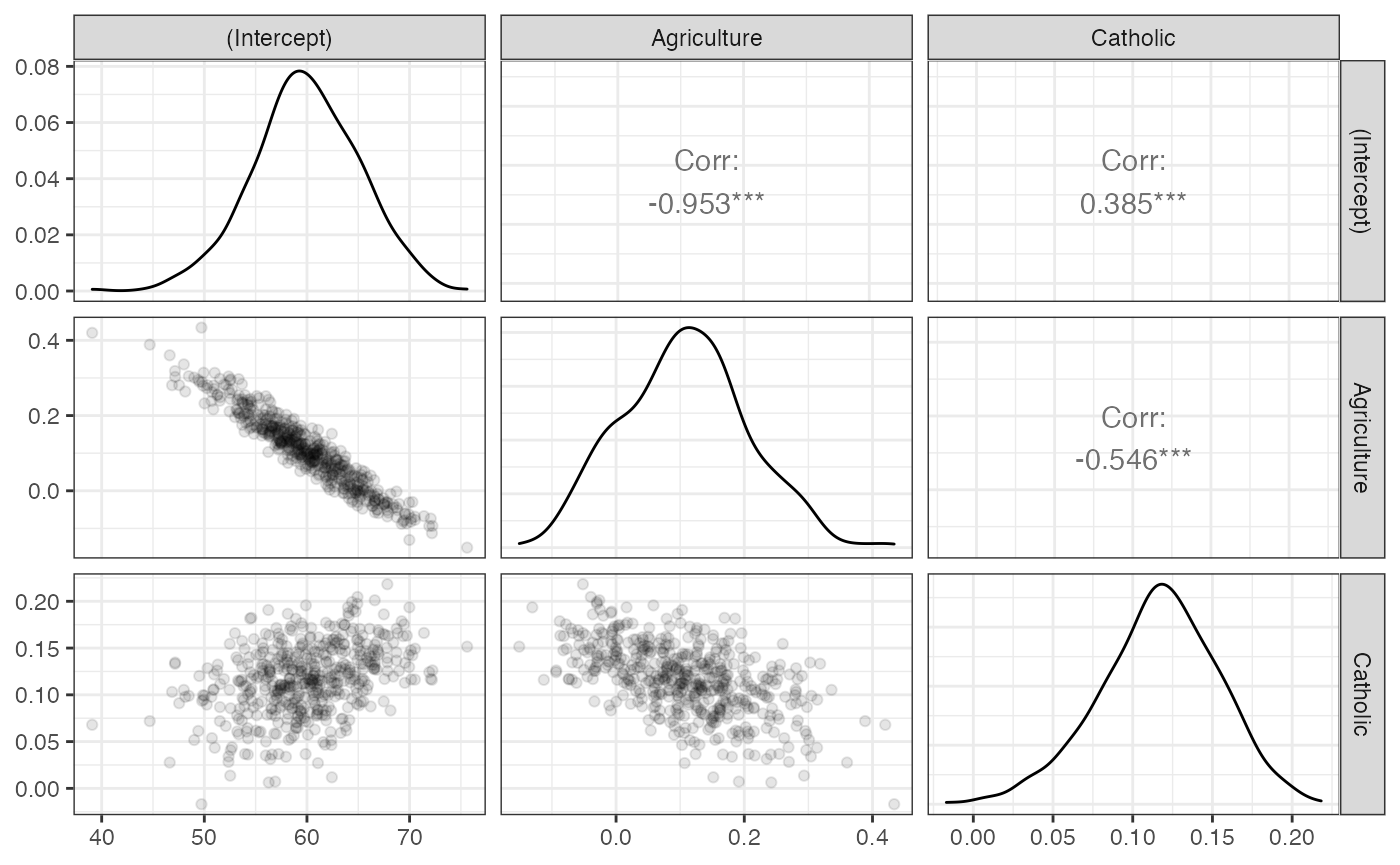
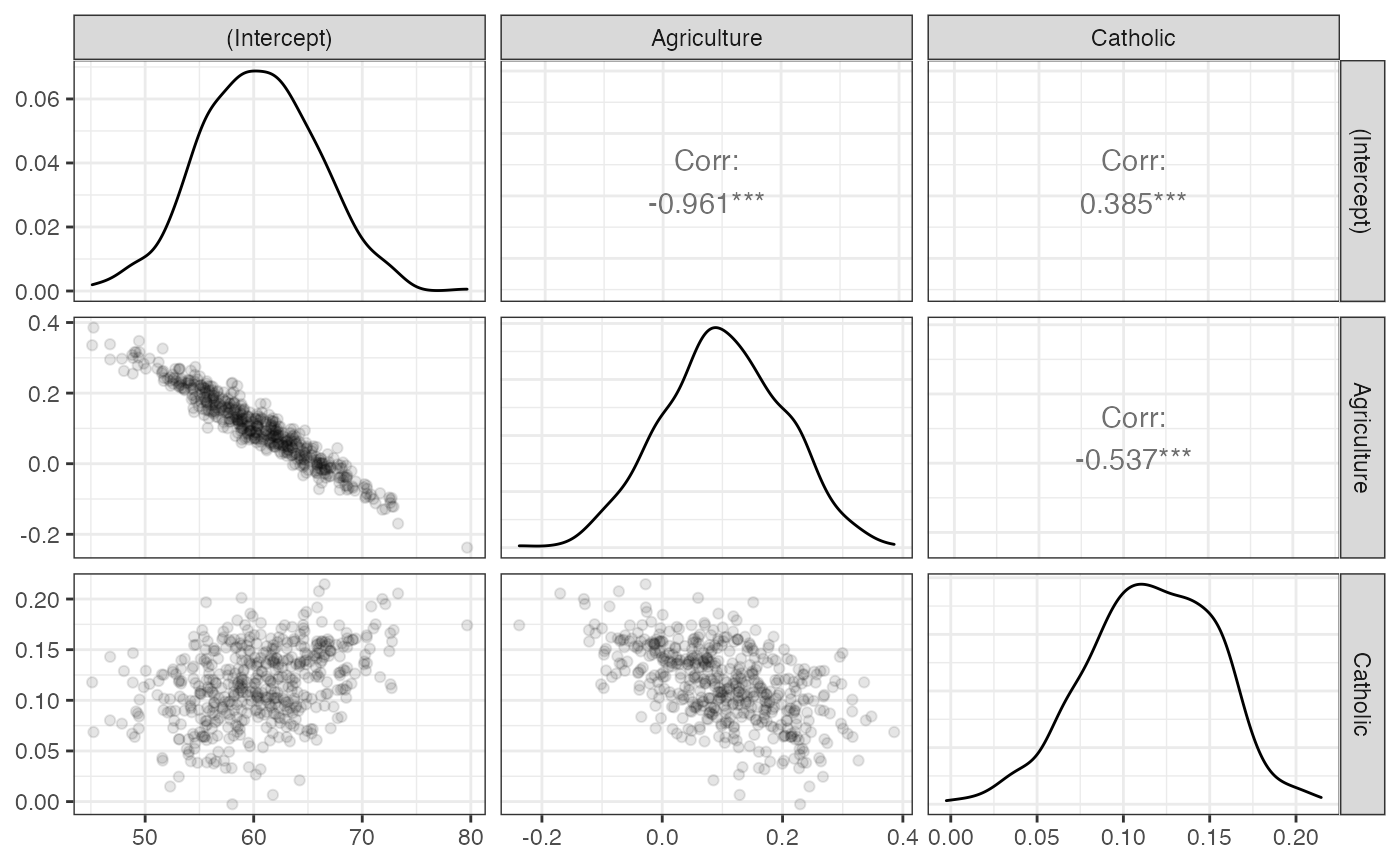
Deploying to gh-pages from  @ dd709c858b15e496c751726b52a727a49fcc6a29 🚀

diff --git a/r/estimatr/articles/estimatr-in-the-tidyverse.html b/r/estimatr/articles/estimatr-in-the-tidyverse.html
@@ -271,72 +271,72 @@
 <tr class="odd">
 <td align="left">1</td>
 <td align="left">(Intercept)</td>
-<td align="right">57.2255407</td>
-<td align="right">4.3185150</td>
-<td align="right">13.2512080</td>
+<td align="right">62.7159392</td>
+<td align="right">5.3176661</td>
+<td align="right">11.7938844</td>
 <td align="right">0.0000000</td>
-<td align="right">48.5221456</td>
-<td align="right">65.9289358</td>
+<td align="right">51.9988874</td>
+<td align="right">73.4329910</td>
 <td align="right">44</td>
 <td align="left">Fertility</td>
 </tr>
 <tr class="even">
 <td align="left">1</td>
 <td align="left">Catholic</td>
-<td align="right">0.1654930</td>
-<td align="right">0.0383714</td>
-<td align="right">4.3129290</td>
-<td align="right">0.0000896</td>
-<td align="right">0.0881606</td>
-<td align="right">0.2428254</td>
+<td align="right">0.1022182</td>
+<td align="right">0.0302474</td>
+<td align="right">3.3794060</td>
+<td align="right">0.0015311</td>
+<td align="right">0.0412586</td>
+<td align="right">0.1631778</td>
 <td align="right">44</td>
 <td align="left">Fertility</td>
 </tr>
 <tr class="odd">
 <td align="left">1</td>
 <td align="left">Agriculture</td>
-<td align="right">0.1230332</td>
-<td align="right">0.0846814</td>
-<td align="right">1.4528954</td>
-<td align="right">0.1533478</td>
-<td align="right">-0.0476309</td>
-<td align="right">0.2936974</td>
+<td align="right">0.0779291</td>
+<td align="right">0.0939399</td>
+<td align="right">0.8295635</td>
+<td align="right">0.4112638</td>
+<td align="right">-0.1113943</td>
+<td align="right">0.2672524</td>
 <td align="right">44</td>
 <td align="left">Fertility</td>
 </tr>
 <tr class="even">
 <td align="left">2</td>
 <td align="left">(Intercept)</td>
-<td align="right">61.1461880</td>
-<td align="right">5.8180568</td>
-<td align="right">10.5097269</td>
+<td align="right">71.2308751</td>
+<td align="right">5.0795535</td>
+<td align="right">14.0230584</td>
 <td align="right">0.0000000</td>
-<td align="right">49.4206650</td>
-<td align="right">72.8717110</td>
+<td align="right">60.9937077</td>
+<td align="right">81.4680425</td>
 <td align="right">44</td>
 <td align="left">Fertility</td>
 </tr>
 <tr class="odd">
 <td align="left">2</td>
 <td align="left">Catholic</td>
-<td align="right">0.1615975</td>
-<td align="right">0.0360211</td>
-<td align="right">4.4861954</td>
-<td align="right">0.0000515</td>
-<td align="right">0.0890018</td>
-<td align="right">0.2341932</td>
+<td align="right">0.1750442</td>
+<td align="right">0.0224986</td>
+<td align="right">7.7802394</td>
+<td align="right">0.0000000</td>
+<td align="right">0.1297013</td>
+<td align="right">0.2203870</td>
 <td align="right">44</td>
 <td align="left">Fertility</td>
 </tr>
 <tr class="even">
 <td align="left">2</td>
 <td align="left">Agriculture</td>
-<td align="right">0.0411230</td>
-<td align="right">0.1052872</td>
-<td align="right">0.3905793</td>
-<td align="right">0.6979929</td>
-<td align="right">-0.1710695</td>
-<td align="right">0.2533155</td>
+<td align="right">-0.1124035</td>
+<td align="right">0.0814375</td>
+<td align="right">-1.3802432</td>
+<td align="right">0.1744845</td>
+<td align="right">-0.2765299</td>
+<td align="right">0.0517229</td>
 <td align="right">44</td>
 <td align="left">Fertility</td>
 </tr>
@@ -350,9 +350,9 @@
 <pre><code>## # A tibble: 3 x 2
 ##   term        boot_se
 ##   &lt;chr&gt;         &lt;dbl&gt;
-## 1 (Intercept)  5.20  
-## 2 Agriculture  0.0981
-## 3 Catholic     0.0375</code></pre>
+## 1 (Intercept)  5.39  
+## 2 Agriculture  0.0999
+## 3 Catholic     0.0370</code></pre>
 <div class="sourceCode" id="cb15"><pre class="downlit sourceCode r">
 <code class="sourceCode R"><span class="co"># To visualize the sampling distribution</span>
 

diff --git a/r/estimatr/articles/absorbing-fixed-effects.html b/r/estimatr/articles/absorbing-fixed-effects.html
@@ -191,9 +191,9 @@
 <span class="op">)</span></code></pre></div>
 <pre><code>## Unit: milliseconds
 ##             expr       min        lq      mean    median        uq      max
-##  base + sandwich 171.31092 176.12680 195.46944 179.51090 188.05631 334.3303
-##        lm_robust  77.95361  81.07955  87.64364  84.35669  88.93613 130.3249
-##  lm_robust + fes  49.16145  51.55747  59.67416  53.27615  57.44732 187.5147
+##  base + sandwich 169.66652 173.49281 189.97176 179.71805 191.77885 302.7089
+##        lm_robust  75.81512  79.13110  84.88808  82.22102  84.69421 127.5936
+##  lm_robust + fes  48.22069  49.91552  55.97817  50.89630  54.09272 182.0109
 ##  neval cld
 ##     50   c
 ##     50  b 
@@ -221,13 +221,13 @@
 <span class="op">)</span></code></pre></div>
 <pre><code>## Unit: milliseconds
 ##             expr        min         lq       mean     median         uq
-##  base + sandwich 171.726638 180.130745 202.686598 185.385652 211.970160
-##        lm_robust  61.201850  64.674055  75.596923  66.975808  74.804311
-##  lm_robust + fes   7.624364   8.101014   9.361467   8.547253   9.886763
+##  base + sandwich 170.210259 175.168544 191.537621 179.041792 192.928775
+##        lm_robust  60.541598  62.896831  68.149178  65.154550  67.269258
+##  lm_robust + fes   7.351397   7.978358   9.070364   8.383448   8.964472
 ##        max neval cld
-##  352.39221    50   c
-##  210.04970    50  b 
-##   16.32043    50 a</code></pre>
+##  337.31343    50   c
+##  181.80482    50  b 
+##   18.06007    50 a</code></pre>
 </div>
   </div>
 

diff --git a/r/estimatr/reference/starprep.html b/r/estimatr/reference/starprep.html
@@ -239,7 +239,7 @@ the preferred, robust statistics.</p>
           omit.stat <span class='op'>=</span> <span class='st'>"f"</span><span class='op'>)</span>
 </div><div class='output co'>#&gt; 
 #&gt; % Table created by stargazer v.5.2.2 by Marek Hlavac, Harvard University. E-mail: hlavac at fas.harvard.edu
-#&gt; % Date and time: Tue, May 18, 2021 - 23:23:10
+#&gt; % Date and time: Wed, May 19, 2021 - 23:22:12
 #&gt; \begin{table}[!htbp] \centering 
 #&gt;   \caption{} 
 #&gt;   \label{} 
@@ -279,7 +279,7 @@ the preferred, robust statistics.</p>
           omit.stat <span class='op'>=</span> <span class='st'>"f"</span><span class='op'>)</span>
 </div><div class='output co'>#&gt; 
 #&gt; % Table created by stargazer v.5.2.2 by Marek Hlavac, Harvard University. E-mail: hlavac at fas.harvard.edu
-#&gt; % Date and time: Tue, May 18, 2021 - 23:23:10
+#&gt; % Date and time: Wed, May 19, 2021 - 23:22:12
 #&gt; \begin{table}[!htbp] \centering 
 #&gt;   \caption{} 
 #&gt;   \label{} 
@@ -316,7 +316,7 @@ the preferred, robust statistics.</p>
           omit.stat <span class='op'>=</span> <span class='st'>"f"</span><span class='op'>)</span>
 </div><div class='output co'>#&gt; 
 #&gt; % Table created by stargazer v.5.2.2 by Marek Hlavac, Harvard University. E-mail: hlavac at fas.harvard.edu
-#&gt; % Date and time: Tue, May 18, 2021 - 23:23:10
+#&gt; % Date and time: Wed, May 19, 2021 - 23:22:12
 #&gt; \begin{table}[!htbp] \centering 
 #&gt;   \caption{} 
 #&gt;   \label{} 

diff --git a/r/estimatr/articles/regression-tables.html b/r/estimatr/articles/regression-tables.html
@@ -258,7 +258,7 @@
 <span class="va">fit</span> <span class="op">&lt;-</span> <span class="fu"><a href="../reference/lm_robust.html">lm_robust</a></span><span class="op">(</span><span class="va">mpg</span> <span class="op">~</span> <span class="va">disp</span>, data <span class="op">=</span> <span class="va">mtcars</span><span class="op">)</span>
 <span class="va">fit</span> <span class="op">%&gt;%</span> <span class="va">tidy</span> <span class="op">%&gt;%</span> <span class="fu"><a href="https://rdrr.io/pkg/xtable/man/xtable.html">xtable</a></span><span class="op">(</span><span class="op">)</span></code></pre></div>
 <pre><code>## % latex table generated in R 4.0.5 by xtable 1.8-4 package
-## % Tue May 18 23:24:27 2021
+## % Wed May 19 23:23:17 2021
 ## \begin{table}[ht]
 ## \centering
 ## \begin{tabular}{rlrrrrrrrl}
